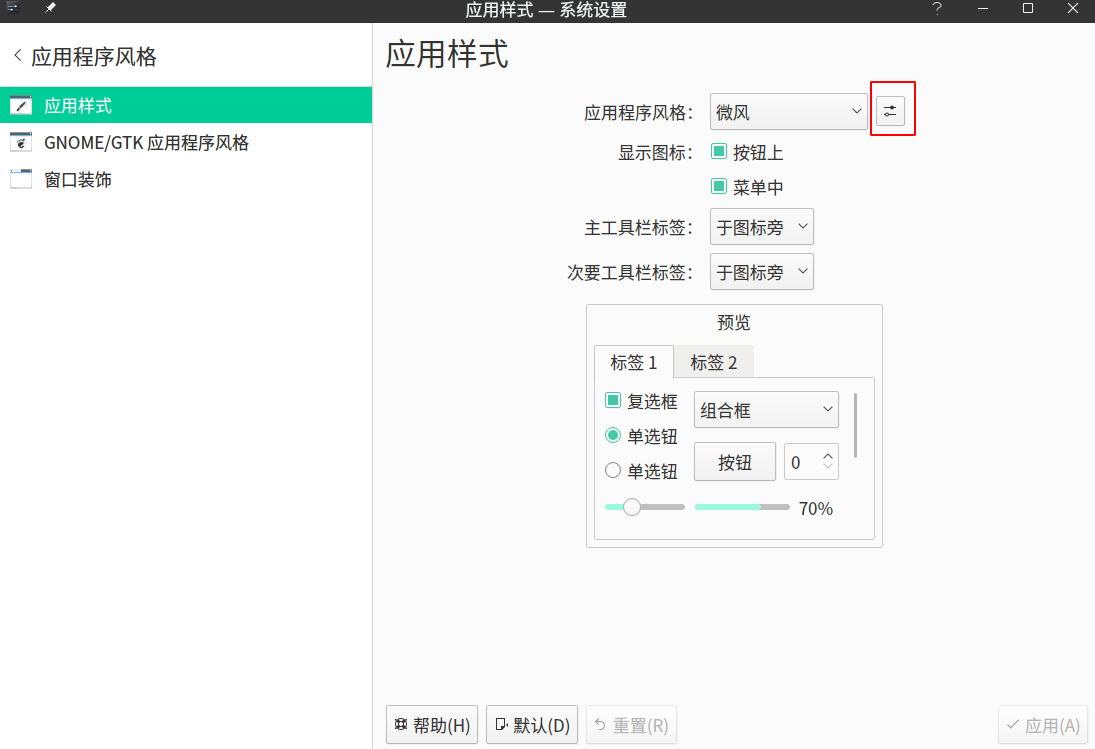
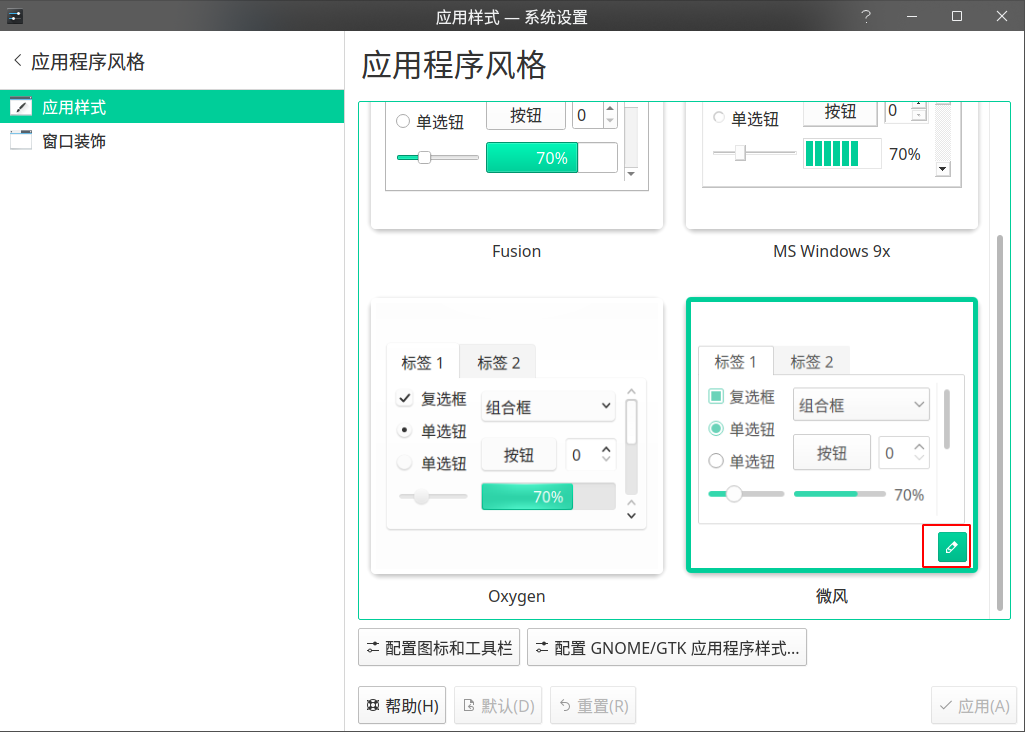
Site updated: 2020-08-18 20:45:11

diff --git a/KDE_to_Windows10/index.html b/KDE_to_Windows10/index.html
@@ -254,7 +254,7 @@
 
     
         <meta property="article:published_time" content="Wed Jan 01 2020 10:08:32 GMT+0800">
-        <meta property="article:modified_time" content="Fri Jul 24 2020 06:45:18 GMT+0800">
+        <meta property="article:modified_time" content="Tue Aug 18 2020 20:41:20 GMT+0800">
     
 
     <!-- The Twitter Card protocol -->
@@ -277,7 +277,7 @@
     "mainEntityOfPage": "https://viflythink.com/KDE_to_Windows10/index.html",
     "headline": "将 KDE 改造为 Windows 10",
     "datePublished": "Wed Jan 01 2020 10:08:32 GMT+0800",
-    "dateModified": "Fri Jul 24 2020 06:45:18 GMT+0800",
+    "dateModified": "Tue Aug 18 2020 20:41:20 GMT+0800",
     "author": {
         "@type": "Person",
         "name": "Vifly",
@@ -514,18 +514,20 @@
 <p>觉得很漂亮吧？那么，接下来就开始我们的改造吧。</p>
 <h1 id="底部栏"><a href="#底部栏" class="headerlink" title="底部栏"></a>底部栏</h1><p>在没有打开任何窗口时，底部栏是与 win10 相差最远的一个地方，所以我们的改造工作先从底部栏开始。可以先看看改造完成后的底部栏效果图：</p>
 <p><img src="/img/article/my_bottom.png" alt="底部栏"></p>
-<h2 id="开始菜单"><a href="#开始菜单" class="headerlink" title="开始菜单"></a>开始菜单</h2><p>喜欢 win10 那简洁的开始菜单吗，在 KDE 下只需安装一个部件（widgets）即可拥有同样的体验。下载 <a href="https://store.kde.org/p/1160672/" rel="external nofollow noopener noreferrer" target="_blank">Tiled Menu</a>，然后将压缩包解压到 ~/.local/share/plasma/plasmoids/ 下，这样就完成安装了。想要使用的话有两种方法：在你左下角的开始菜单处鼠标右键单击，选择“显示替代方案”，选择 Tiled Menu；在底部栏右键单击，选择“编辑面板”，鼠标移到原来的开始菜单，选择移除，然后选择“添加部件”，选择 Tiled Menu。你可以在弹出的开始菜单右上角按住 ALT 和 鼠标右键进行拖拽以更改菜单大小。        </p>
+<h2 id="开始菜单"><a href="#开始菜单" class="headerlink" title="开始菜单"></a>开始菜单</h2><p>喜欢 win10 那简洁的开始菜单吗，在 KDE 下只需安装一个部件（widgets）即可拥有同样的体验。下载 <a href="https://store.kde.org/p/1160672/" rel="external nofollow noopener noreferrer" target="_blank">Tiled Menu</a>，并在底部栏空白处单击右键，然后点击“添加部件”，按照下图所示进行安装。</p>
+<p><img src="/img/article/install_widget.png" alt="安装部件"></p>
+<p>想要使用的话有两种方法：在你左下角的开始菜单处鼠标右键单击，选择“显示替代方案”，选择 Tiled Menu；在底部栏右键单击，选择“编辑面板”，鼠标移到原来的开始菜单，选择移除，然后选择“添加部件”，选择 Tiled Menu。你可以在弹出的开始菜单右上角按住 ALT 和 鼠标右键进行拖拽以更改菜单大小。        </p>
 <p><img src="/img/article/set_start_menu.png" alt="将 Tiled Menu 设为开始菜单"></p>
 <p>另外，想实现像在 Windows 那样按下 win 键便弹出开始菜单这一点，还需要做一点设置：右键单击开始菜单并选择“配置Tiled Menu”，点击“Keyboard shortcuts”，然后在下面截图所示位置左键单击并顺序按下 ALT 和 F1 键。</p>
 <p><img src="/img/article/set_tiled_menu_shortcut.png" alt="设置 Tiled Menu 的快捷键"></p>
 <h2 id="毛玻璃效果"><a href="#毛玻璃效果" class="headerlink" title="毛玻璃效果"></a>毛玻璃效果</h2><p>是否觉得在我的截图中的底部栏非常好看呢，这在很大程度上都是毛玻璃效果带来的。想要做到这样的效果，只需安装一个被称为 <a href="https://store.kde.org/p/1084931/" rel="external nofollow noopener noreferrer" target="_blank">Breeze AlphaBlack</a> 的 Plasma Themes。下载完成后将其解压到 ~/.local/share/plasma/desktoptheme/，然后打开系统设置，在侧栏点击“Plasma 样式”，选择 Breeze AlphaBlack 并应用更改。重启电脑后就能在系统托盘处见到 AlphaBlack Control（长得像是个雨滴），单击即可进行调整：将“Accent Color”的“Panel, Widget, Window TitleBars &amp; Frames”处的值改为 #343434（默认的纯黑不好看），将“Opacity”的“Panel”处的值调整为 10% 以加强底部栏透明度。</p>
 <p><img src="/img/article/set_alpha_black.png" alt="设置 AlphaBlack"></p>
-<p>另外，你还可以通过以下方法令 QT 系的应用的右键菜单拥有毛玻璃效果：打开系统设置，在侧栏点击“应用程序风格”，选择“应用样式”，并在“应用程序风格”处选择“微风”，点击旁边的配置按钮，点击“透明度”一栏，将透明度变大。将透明度变大能达到毛玻璃效果的原因是 KDE 默认的半透明是带有模糊效果的，而不是简单的透明，具体的模糊设置可在系统设置下的“工作空间行为”-&gt;“桌面特效”中找到。</p>
+<p>另外，你还可以通过以下方法令 QT 系的应用的右键菜单拥有毛玻璃效果：打开系统设置，在侧栏点击“应用程序风格”，选择“应用样式”，找到“微风”，点击右下角的配置按钮，点击“透明度”一栏，将透明度变大。将透明度变大能达到毛玻璃效果的原因是 KDE 默认的半透明是带有模糊效果的，而不是简单的透明，具体的模糊设置可在系统设置下的“工作空间行为”-&gt;“桌面特效”中找到。</p>
 <p><img src="/img/article/set_breeze_style.png" alt="设置微风的应用程序风格"></p>
 <p><img src="/img/article/set_breeze_transparency.png" alt="设置微风的菜单透明度"></p>
 <h2 id="任务管理器部件"><a href="#任务管理器部件" class="headerlink" title="任务管理器部件"></a>任务管理器部件</h2><p>依然是在底部栏右键单击，选择“编辑面板”，将鼠标移动到底部栏空白处，点击“显示替代方案”，选择图标任务管理器（Icon-Only Task Manager），然后你就可以看到类似于 win10 的底部窗口了，这里说明一下，图标任务管理器是自带的一个部件，无需安装。</p>
 <p><img src="/img/article/set_task_manager.png" alt="设置图标任务管理器"></p>
-<h2 id="快速查看已打开的窗口"><a href="#快速查看已打开的窗口" class="headerlink" title="快速查看已打开的窗口"></a>快速查看已打开的窗口</h2><p>win10 可点击左下角的按钮快速查看已打开的窗口，在安装了 <a href="https://store.kde.org/p/1181039" rel="external nofollow noopener noreferrer" target="_blank">Present Windows Button</a> 这个部件后，我们也可以做到这一点。与安装 Tiled Menu 时相同，将下载好的压缩包解压到 ~/.local/share/plasma/plasmoids/ 下，然后把这个部件放在开始菜单和任务管理器之间即可。点击按钮产生的效果与在 Gnome 下将鼠标移动到屏幕左上角触发的效果差不多，KDE 也可设置这样的触发角，不过我觉得设置这样的一个按钮没什么实际意义，可能最大的好处就是没事点一下能有效消遣无聊吧（雾）。这里还有一个能让底部栏变得更美观的 Tips，在底部栏右键单击，选择“编辑面板”后点击“添加间距”，以此添加两个间距，将其缩到最小后对其右键取消勾选“设置可变大小”，然后将这两个间距拖到 Present Windows Button 两边，这能令 Present Windows Button 两边不会显得拥挤，从而变得美观。</p>
+<h2 id="快速查看已打开的窗口"><a href="#快速查看已打开的窗口" class="headerlink" title="快速查看已打开的窗口"></a>快速查看已打开的窗口</h2><p>win10 可点击左下角的按钮快速查看已打开的窗口，在安装了 <a href="https://store.kde.org/p/1181039" rel="external nofollow noopener noreferrer" target="_blank">Present Windows Button</a> 这个部件后，我们也可以做到这一点。这个部件的安装方法与 Tiled Menu 时相同，在安装完成后把这个部件放在开始菜单和任务管理器之间。这个部件产生的点击效果与在 Gnome 下将鼠标移动到屏幕左上角触发的效果差不多，KDE 也可设置这样的触发角，不过我觉得设置这样的一个按钮没什么实际意义，可能最大的好处就是没事点一下能有效消遣无聊吧（雾）。这里还有一个能让底部栏变得更美观的 Tips，在底部栏右键单击，选择“编辑面板”后点击“添加间距”，以此添加两个间距，将其缩到最小后对其右键取消勾选“设置可变大小”，然后将这两个间距拖到 Present Windows Button 两边，这能令 Present Windows Button 两边不会显得拥挤，从而变得美观。</p>
 <h2 id="其它"><a href="#其它" class="headerlink" title="其它"></a>其它</h2><p>想要在其他人面前假装自己在使用 win10 吗，将开始菜单的图标更换为 win10 开始菜单的图标无疑能让 KDE 变得更像 win10。你可以在 <a href="https://www.iconfinder.com/icons/1220364/microsoft_window_windows_icon" rel="external nofollow noopener noreferrer" target="_blank">IconFinder</a> 上下载 win10 图标，也可使用我在该图标的基础上<a href="https://1drv.ms/u/s!AnrGd4m50K7QbMyHxI-JM4EWUu4?e=0JXp1I" rel="external nofollow noopener noreferrer" target="_blank">使用 Inkscape 手动缩小后的 win10 图标</a>。右键单击开始菜单并选择“配置Tiled Menu”即可更换图标。我知道存在 <a href="https://store.kde.org/p/1167558/" rel="external nofollow noopener noreferrer" target="_blank">Winux10</a> 之类的图标主题可以将默认的图标替换为 win10 图标，但我经过尝试后发现其覆盖不全面，用以截图假装自己在使用 win10 是可以的，但日常使用会感到违和，所以还是推荐使用默认的图标主题。让我们再关注另一个细节，那就是右下角的时钟，想让它像 win10 那样双栏显示日期和时间并不难：在底部栏空白处右键单击，选择“编辑面板”，左键按住“高度”并进行上下拖拽，这样可以调整面板高度，稍微调高一些后，右键单击时钟，选择“配置数字时钟”，勾选“显示日期”，并将时间显示改为24小时制。</p>
 <h1 id="窗口装饰"><a href="#窗口装饰" class="headerlink" title="窗口装饰"></a>窗口装饰</h1><p>KDE 的窗口装饰指的是打开的应用程序窗口的顶部部分（就是包含了最小化、最大化、关闭按钮的那一栏）。我在 Google 搜索如何让 KDE 变得像 win10 时发现了一个非常新的 KDE 主题 <a href="https://github.com/fauzie811/Breeze10" rel="external nofollow noopener noreferrer" target="_blank">Breeze10</a>，从 Github 页面上的图片可以看出这个主题可以完美地将窗口装饰变为 win10 的风格。<del>由于目前（2019年12月）还没人打包，所以需要按照其 Github 页面上的操作步骤进行编译安装</del>。AUR 上已有人打包，所以我们可以在终端输入指令安装（需要安装 Yay 这个 AUR 助手）：     </p>
 <pre><code>yay -S breeze10-kde-git
